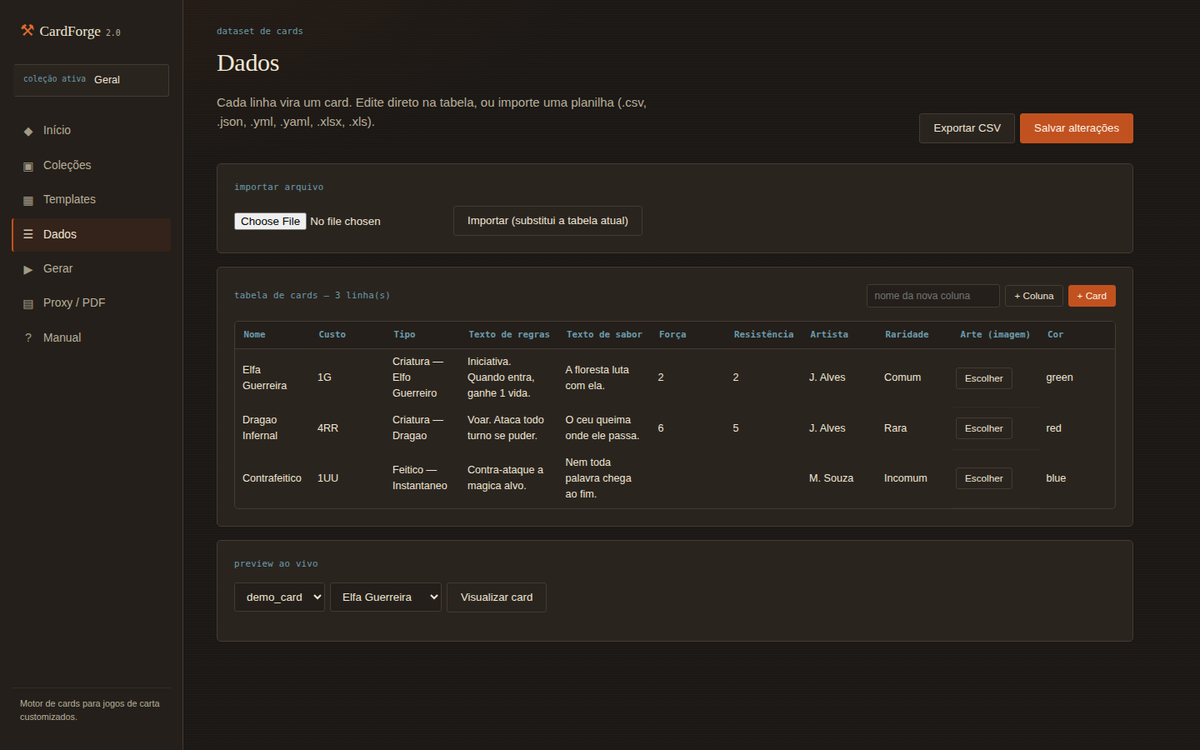
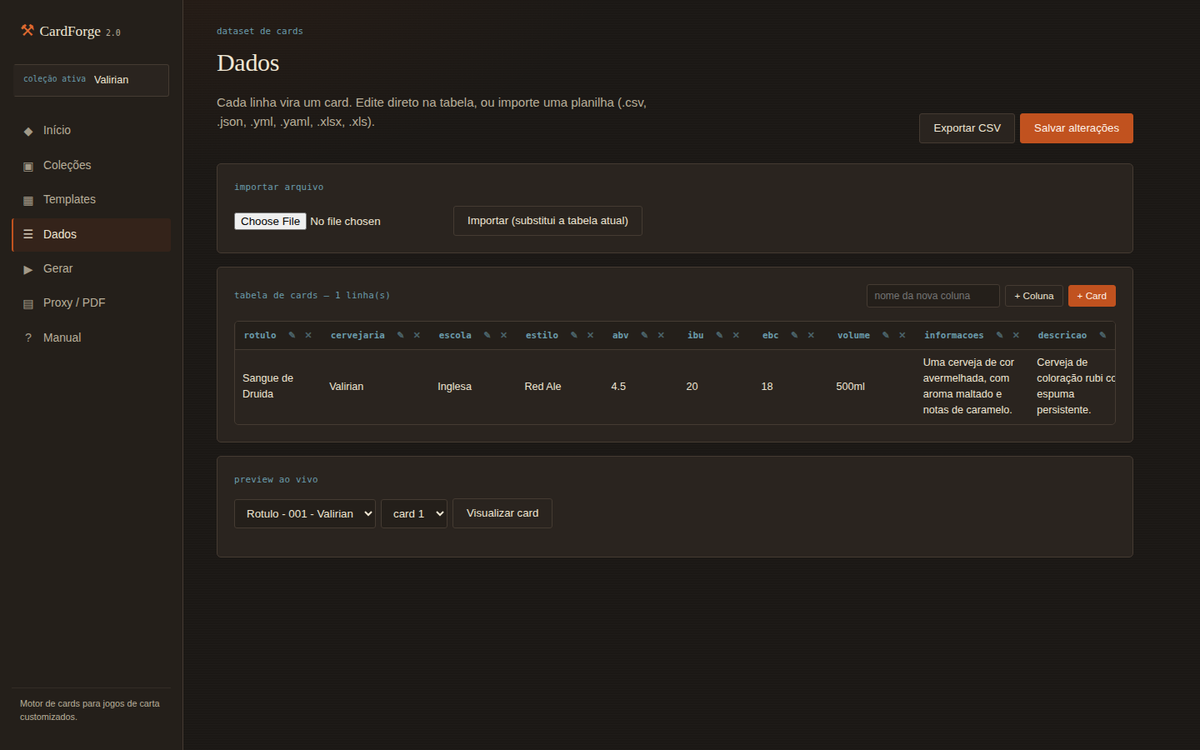
Atualiza documentacao (wiki + README) para refletir colecoes, campos customizados e ferramentas de camadas

diff --git a/docs/07-solucao-problemas.md b/docs/07-solucao-problemas.md
@@ -2,7 +2,7 @@
 
 ## O texto de uma camada não aparece no card gerado
 
-- Confira se o **Campo do dataset** da camada bate exatamente com o nome de uma coluna no dataset (sem acento, minúsculo, `snake_case` — ex: `mana_cost`, não `Custo Mana`).
+- Confira se o **Campo do dataset** da camada bate exatamente com o nome de uma coluna no dataset (sem acento, minúsculo — o sistema tenta ignorar maiúscula/minúscula, mas não corrige acentos ou espaços). Use o autocomplete do campo pra ver os nomes reais disponíveis na coleção ativa.
 - Se a camada usa `condition` (`has_pt` ou `has_flavor`), ela só aparece quando os campos exigidos estiverem preenchidos naquela linha específica.
 - Verifique se a camada está marcada como **Visível**.
 
@@ -12,10 +12,29 @@
 - Confirme que você selecionou a fonte certa no campo **Fonte** da camada — enviar a fonte não a aplica automaticamente a nenhuma camada existente.
 - No **canvas do editor**, o texto pode parecer discretamente diferente da renderização final (é um preview rápido). Use **◎ Ver renderização real** para conferir o resultado exato.
 
-## A imagem de fundo ou arte não aparece
+## A imagem de fundo, logo ou arte não aparece
 
 - Confirme que o arquivo é `.png`, `.jpg`, `.jpeg` ou `.webp`.
-- Para arte de card (camada `image`), o valor da coluna do dataset precisa ser exatamente o nome do arquivo como aparece na biblioteca (a forma mais segura é sempre usar o seletor **Escolher** na tabela de Dados, em vez de digitar o caminho manualmente).
+- Para uma camada de imagem **dinâmica** (puxando do dataset via `Campo do dataset`), o valor da coluna precisa ser exatamente o nome do arquivo como aparece na biblioteca — use sempre o seletor **Escolher** na tabela de Dados, em vez de digitar o caminho manualmente.
+- Para uma camada de imagem **fixa** (a mesma em todo card, tipo um ícone ou selo), deixe o **Campo do dataset** vazio e envie a imagem pelo campo **Imagem fixa**, nas propriedades da camada.
+- O sistema procura o arquivo na pasta do template, depois na biblioteca de imagens da coleção ativa (`assets/library/`), depois no diretório de trabalho — nessa ordem.
+
+## Não consigo clicar/arrastar a camada que eu quero — outra camada sobreposta "rouba" o clique
+
+- Selecione a camada certa pela **lista de camadas** (à esquerda) primeiro — depois disso, arrastar dentro da área dela no canvas sempre move ela, mesmo com outra camada visualmente por cima.
+- Ou use **Alt+clique** repetidas vezes no mesmo ponto — cada clique passa pra próxima camada abaixo daquele ponto.
+- Ou trave (🔒) a camada que está atrapalhando, na lista de camadas — enquanto travada, o clique no canvas atravessa ela direto pra próxima.
+- Veja o manual de [Templates](01-templates#movendo-e-redimensionando-camadas) pra mais detalhes.
+
+## Importei um CSV e os dados vieram bagunçados/trocados de coluna
+
+Isso quase sempre é vírgula sem aspas dentro de um campo de texto livre (descrição, sabor, texto de regras). Como CSV usa vírgula como separador de coluna, uma vírgula *dentro* do texto quebra o campo em dois pedaços e desloca todas as colunas seguintes — silenciosamente, sem erro.
+
+- Coloque entre aspas duplas (`"..."`) qualquer campo que possa conter vírgula.
+- Evite vírgula solta no fim da linha (cria uma coluna extra sem nome).
+- Ou importe via `.xlsx` em vez de `.csv` — cada célula já é isolada, sem esse risco.
+
+Veja um exemplo comentado de um CSV com esse problema (e a correção) no manual de [Dados](02-dados#campos-totalmente-customizados-jogos-com-esquema-diferente).
 
 ## A geração em lote trava ou demora muito
 
@@ -28,8 +47,12 @@
 
 ## Perdi o link de um lote gerado antigo
 
-- A lista de lotes na tela de **Gerar** é por sessão de navegador. Se você limpou os cookies ou trocou de navegador, a lista visual se perde — mas os arquivos continuam em `instance/<sessão-antiga>/output/` no disco, e podem ser recuperados manualmente lá se necessário.
+- A lista de lotes na tela de **Gerar** é por sessão de navegador. Se você limpou os cookies ou trocou de navegador, a lista visual se perde — mas os arquivos continuam em `collections/<coleção>/output/` no disco, e podem ser recuperados manualmente lá se necessário.
 
-## Excluí um template por engano
+## Excluí um template ou uma coleção por engano
 
-Não há como desfazer pela interface — a pasta inteira (`templates/<nome>/`) é removida do disco. Se você usa controle de versão (git) no projeto, é possível recuperar a pasta do histórico de commits.
+Não há como desfazer pela interface:
+- Excluir um **template** remove a pasta `collections/<coleção>/templates/<nome>/` inteira.
+- Excluir uma **coleção** remove `collections/<coleção>/` inteira — templates, dados, fontes, artes e tudo que já foi gerado dela.
+
+Se você usa controle de versão (git) no projeto, é possível recuperar a pasta do histórico de commits.

diff --git a/README.md b/README.md
@@ -33,8 +33,9 @@ Não é um app fechado, não exige conta, não trava seu trabalho atrás de payw
 
 ## Por que usar
 
-- 🎨 **Editor visual de verdade** — arraste, redimensione e estilize camadas de texto, arte e fundo direto no navegador, sem editar JSON na mão.
+- 🎨 **Editor visual de verdade** — arraste, redimensione e estilize camadas de texto, arte e fundo direto no navegador, sem editar JSON na mão. Alinhamento, ordem de empilhamento, travar camada e mover com o teclado, pra organizar até layouts complexos com camadas sobrepostas.
 - 🗂 **Coleções** — cada jogo (ou cada atualização/expansão de um jogo) vive isolado em sua própria pasta: templates, dados, fontes e cards gerados nunca se misturam entre projetos diferentes.
+- 🧬 **Campos de dados totalmente customizáveis** — os campos padrão (estilo MTG) são só sugestão; renomeie, remova ou comece do zero com o esquema do seu próprio jogo, sem nenhum campo forçado.
 - 📋 **Dados sem fricção** — importe uma planilha (CSV/XLSX/YAML/JSON) ou edite os cards direto numa tabela no navegador.
 - 🖨 **Pronto pra jogar de verdade** — geração em lote (PNG/JPEG/WebP/SVG) e uma folha de proxy pra impressão (A4/A3/Letter) com marcas de corte e verso.
 - 📖 **Manual embutido** — um wiki em `/wiki`, dentro do próprio app, documentando cada tela.
@@ -115,6 +116,8 @@ E um manual completo, sempre à mão, dentro do próprio app:
 | Fontes | Fixas (Beleren/Mplantin) | Upload de `.ttf`, por template ou por coleção |
 | Geração em lote | Só local | Resultado em grade com download individual ou `.zip` |
 | Proxy de impressão | Sim (A4/A3/Letter + verso) | Mantido, com upload de verso pela interface |
+| Organização de camadas | Só arraste, z-index digitado à mão | Alinhamento (6 modos), ordem de empilhamento com botões, travar camada, mover com o teclado, Alt+clique pra camadas sobrepostas |
+| Esquema de dados | — (não existia versão web) | Campos totalmente customizáveis por coleção — os campos estilo MTG são só sugestão |
 | Documentação | Arquivos `.md` soltos no repositório | Wiki navegável dentro do próprio app (`/wiki`) |
 | Persistência | Arquivos no disco | Arquivos no disco, organizados por coleção (ainda sem banco de dados) |
 
@@ -185,6 +188,7 @@ Detalhes de cada etapa estão no manual embutido (`/wiki`), incluindo o formato 
 - **Sem banco de dados** — tudo é arquivo, organizado por coleção. Cada coleção é uma pasta que você pode copiar, arquivar ou versionar isoladamente.
 - **Geração síncrona** — a geração em lote roda na mesma requisição. Pra datasets muito grandes (várias centenas de cards), gere em lotes menores.
 - **Fontes**: ordem de busca é `templates/<nome>/fonts/` (da coleção ativa) → `collections/<coleção>/assets/fonts_custom/` → `assets/fonts/` (embutidas, globais).
+- **Imagens** (dinâmicas ou fixas numa camada): ordem de busca é pasta do template → `assets/library/` da coleção ativa → diretório de trabalho do processo.
 - **Migração automática**: projetos criados antes do sistema de coleções têm templates/assets migrados automaticamente pra uma coleção "Geral" na primeira execução após a atualização.
 
 ---

diff --git a/docs/05-fontes-assets.md b/docs/05-fontes-assets.md
@@ -5,13 +5,13 @@
 CardForge procura uma fonte nesta ordem, parando na primeira que encontrar:
 
 1. `templates/<nome-do-template>/fonts/` — fonte específica daquele template.
-2. `assets/fonts_custom/` — fontes enviadas globalmente (disponíveis para qualquer template).
-3. `assets/fonts/` — fontes embutidas no CardForge.
+2. `assets/fonts_custom/` da **coleção ativa** — fontes enviadas nessa coleção, disponíveis para qualquer template dela.
+3. `assets/fonts/` — fontes embutidas no CardForge (sempre globais, disponíveis em qualquer coleção).
 
 Na prática, isso significa que:
 
 - Enviar uma fonte pelo **editor de template** (painel "Fontes") a torna exclusiva daquele template.
-- Se dois templates diferentes precisam da mesma fonte customizada, você pode enviá-la nos dois, ou colocá-la diretamente em `assets/fonts_custom/` no disco (fora da interface) para que fique disponível a todos de uma vez.
+- Fontes ficam isoladas por coleção — uma fonte enviada numa coleção não aparece em outra. Se duas coleções diferentes precisam da mesma fonte customizada, envie-a em cada uma.
 
 Depois de enviada, a fonte aparece no seletor **Fonte** de qualquer camada de texto daquele template, usando o nome do arquivo (sem a extensão `.ttf`) como nome da família.
 
@@ -21,12 +21,20 @@ Apenas `.ttf`. Se você tem uma fonte em `.otf` ou `.woff`, converta para `.ttf`
 
 ## Biblioteca de imagens
 
-As imagens de arte enviadas pela tela de **Dados** ficam em `assets/library/` e são compartilhadas entre todos os templates e todos os cards — envie uma vez, reutilize em quantas linhas do dataset quiser.
+As imagens de arte enviadas pela tela de **Dados** (pelo seletor **Escolher** na coluna `art`) ficam em `collections/<coleção>/assets/library/` — compartilhadas entre todos os templates e todos os cards **dessa coleção**. Envie uma vez, reutilize em quantas linhas do dataset quiser. Coleções diferentes têm bibliotecas separadas.
 
 ### Formatos aceitos
 
 `.png`, `.jpg`, `.jpeg`, `.webp`.
 
-### Onde as imagens de fundo dos templates ficam
+### Onde as imagens fixas de um template ficam
 
-Diferente da biblioteca de arte, a **imagem de fundo** e a **imagem de verso** de um template ficam salvas dentro da própria pasta daquele template (`templates/<nome>/`), não na biblioteca compartilhada — cada template tem seu próprio fundo.
+Diferente da biblioteca de arte, a **imagem de fundo**, a **imagem de verso** e qualquer **imagem fixa** de camada (ver [Templates](01-templates#propriedades-de-uma-camada)) ficam salvas dentro da própria pasta daquele template (`collections/<coleção>/templates/<nome>/`), não na biblioteca compartilhada — cada template guarda suas próprias imagens fixas.
+
+### Ordem de busca de imagens (dinâmicas e fixas)
+
+Tanto uma camada de imagem **dinâmica** (puxando do dataset) quanto uma **fixa** procuram o arquivo nessa ordem:
+
+1. Dentro da pasta do próprio template.
+2. Na biblioteca de imagens (`assets/library/`) da coleção ativa.
+3. No diretório de trabalho onde o servidor foi iniciado (evite depender disso — é o menos confiável dos três).

diff --git a/docs/06-formato-template.md b/docs/06-formato-template.md
@@ -4,7 +4,7 @@ Este é um manual técnico para quem quer editar um template diretamente no arqu
 
 ## Estrutura geral
 
-Cada template vive em `templates/<nome>/base.json`:
+Cada template vive em `collections/<coleção>/templates/<nome>/base.json` (dentro da pasta da [coleção](08-colecoes) à qual pertence):
 
 ```json
 {
@@ -45,6 +45,7 @@ Cada template vive em `templates/<nome>/base.json`:
   "z_index": 10,
   "visible": true,
   "multiline": false,
+  "locked": false,
   "fit": "cover",
   "source_image": "",
   "source_gradient": "",
@@ -65,13 +66,15 @@ Cada template vive em `templates/<nome>/base.json`:
 | Tipo | Descrição |
 |---|---|
 | `background` | Imagem de fundo ou gradiente (usa `gradients` quando não há `source_image`) |
-| `image` | Arte do card — o valor de `field` aponta para uma coluna do dataset com o caminho da imagem |
-| `text` | Texto dinâmico (via `field`) ou fixo (via `static_text`) |
+| `image` | Arte do card — dinâmica (via `field`, aponta pra coluna do dataset com o caminho da imagem) ou fixa (via `source_image`, quando `field` está vazio) |
+| `text` | Texto dinâmico (via `field`) ou fixo (via `static_text`, quando `field` está vazio) |
 | `mana` | Igual a `text`, semanticamente reservado para custo/símbolos |
 
 ### Campos importantes
 
-- **`field`** — nome da coluna do dataset. Se vazio (ou `"static"`), a camada usa `static_text` em vez de puxar do dataset.
+- **`field`** — nome da coluna do dataset. Se vazio (ou `"static"`), o comportamento depende do tipo: camadas `text`/`mana` usam `static_text`; camadas `image`/`background` usam `source_image` — ambos casos servem pra conteúdo que não muda entre cards (ex: um ícone fixo, um texto de rodapé fixo).
+- **`source_image`** — nome de um arquivo de imagem. Resolvido nessa ordem: pasta do próprio template → `assets/library/` da coleção ativa (onde a tela de Dados salva os uploads) → diretório de trabalho do processo.
+- **`locked`** — `true` trava a camada contra clique/arraste no editor visual (o clique no canvas atravessa ela). Não afeta a renderização de forma alguma — é só uma conveniência do editor.
 - **`condition`** — controla se a camada aparece: `""` (sempre), `"has_pt"` (só se `power` e `toughness` estiverem preenchidos) ou `"has_flavor"` (só se `flavor_text` estiver preenchido).
 - **`fit`** — só relevante para `background`/`image`: `cover` (preenche e corta o excesso), `contain` (encaixa sem cortar, pode sobrar espaço) ou `stretch` (distorce para caber exatamente).
 - **`line_height_pt`** — `0` significa automático (`font_size_pt × 1.35`).

diff --git a/docs/02-dados.md b/docs/02-dados.md
@@ -31,6 +31,24 @@ Importar um arquivo (CSV/XLSX/YAML/JSON) também respeita isso: as colunas do da
 
 No editor de template, o campo **"Campo do dataset"** de cada camada (veja o manual de [Templates](01-templates)) sugere automaticamente, num autocomplete, os nomes de campo que já existem no dataset da coleção ativa — assim fica fácil conectar visualmente cada camada do card ao dado certo, mesmo com um esquema totalmente próprio.
 
+### Cuidado com vírgulas dentro de campos, ao importar CSV
+
+Se algum campo de texto livre (descrição, sabor, texto de regras) puder conter vírgula, **coloque esse campo entre aspas duplas** no seu `.csv` — senão a vírgula interna quebra a coluna em dois pedaços e desloca tudo que vem depois, silenciosamente, sem erro na importação.
+
+Errado (a vírgula dentro do texto quebra a coluna seguinte):
+```csv
+Rotulo,Informacoes
+Sangue de Druida,Uma cerveja de cor avermelhada, com aroma maltado.
+```
+
+Certo:
+```csv
+Rotulo,Informacoes
+Sangue de Druida,"Uma cerveja de cor avermelhada, com aroma maltado."
+```
+
+O repositório tem um exemplo completo e correto em `modelo_import/teste-rotulo.csv` — um dataset de rótulos de cerveja com campos 100% customizados (`Cervejaria`, `ABV`, `IBU`, `Harmon1`...), pronto pra importar e usar como referência. Se preferir não se preocupar com aspas, importe via `.xlsx` em vez de `.csv` — cada célula já é isolada naturalmente.
+
 ## Colunas padrão (ponto de partida sugerido, estilo MTG)
 
 | Coluna | Uso |

diff --git a/docs/00-visao-geral.md b/docs/00-visao-geral.md
@@ -17,7 +17,7 @@ CardForge é um motor de criação de cards para jogos de carta customizados. Vo
 
 **Dado** é uma linha da sua planilha ou tabela: os valores reais que entram em cada camada de texto/imagem. Um dataset com 30 linhas gera 30 cards.
 
-**Campo** conecta uma camada a uma coluna do dataset. Por exemplo, uma camada de texto com campo `name` mostra o valor da coluna `name` daquela linha. Se o campo ficar vazio, a camada usa um **texto fixo** em vez de puxar do dataset — útil para textos que não mudam entre cards.
+**Campo** conecta uma camada a uma coluna do dataset. Por exemplo, uma camada de texto com campo `name` mostra o valor da coluna `name` daquela linha. Se o campo ficar vazio, a camada usa conteúdo fixo em vez de puxar do dataset — **texto fixo** pra camadas de texto, **imagem fixa** pra camadas de imagem/fundo — útil pra conteúdo que não muda entre cards (um rodapé, um ícone, uma marca d'água).
 
 ## Coleções
 

diff --git a/docs/03-gerar.md b/docs/03-gerar.md
@@ -22,4 +22,4 @@ Para baixar tudo de uma vez, use **⇩ Baixar tudo (.zip)** — o arquivo compac
 
 ## Lotes anteriores
 
-A tela de Gerar mantém uma lista dos lotes já gerados na sessão atual, com acesso rápido ao resultado de cada um. Esse histórico é por sessão de navegador — fechar o navegador ou limpar cookies reinicia essa lista (os arquivos gerados continuam no disco em `instance/`, mas o link direto seria perdido).
+A tela de Gerar mantém uma lista dos lotes já gerados na sessão atual, com acesso rápido ao resultado de cada um. Esse histórico é por sessão de navegador — fechar o navegador ou limpar cookies reinicia essa lista (os arquivos gerados continuam no disco em `collections/<coleção>/output/`, e podem ser encontrados manualmente lá se necessário).
